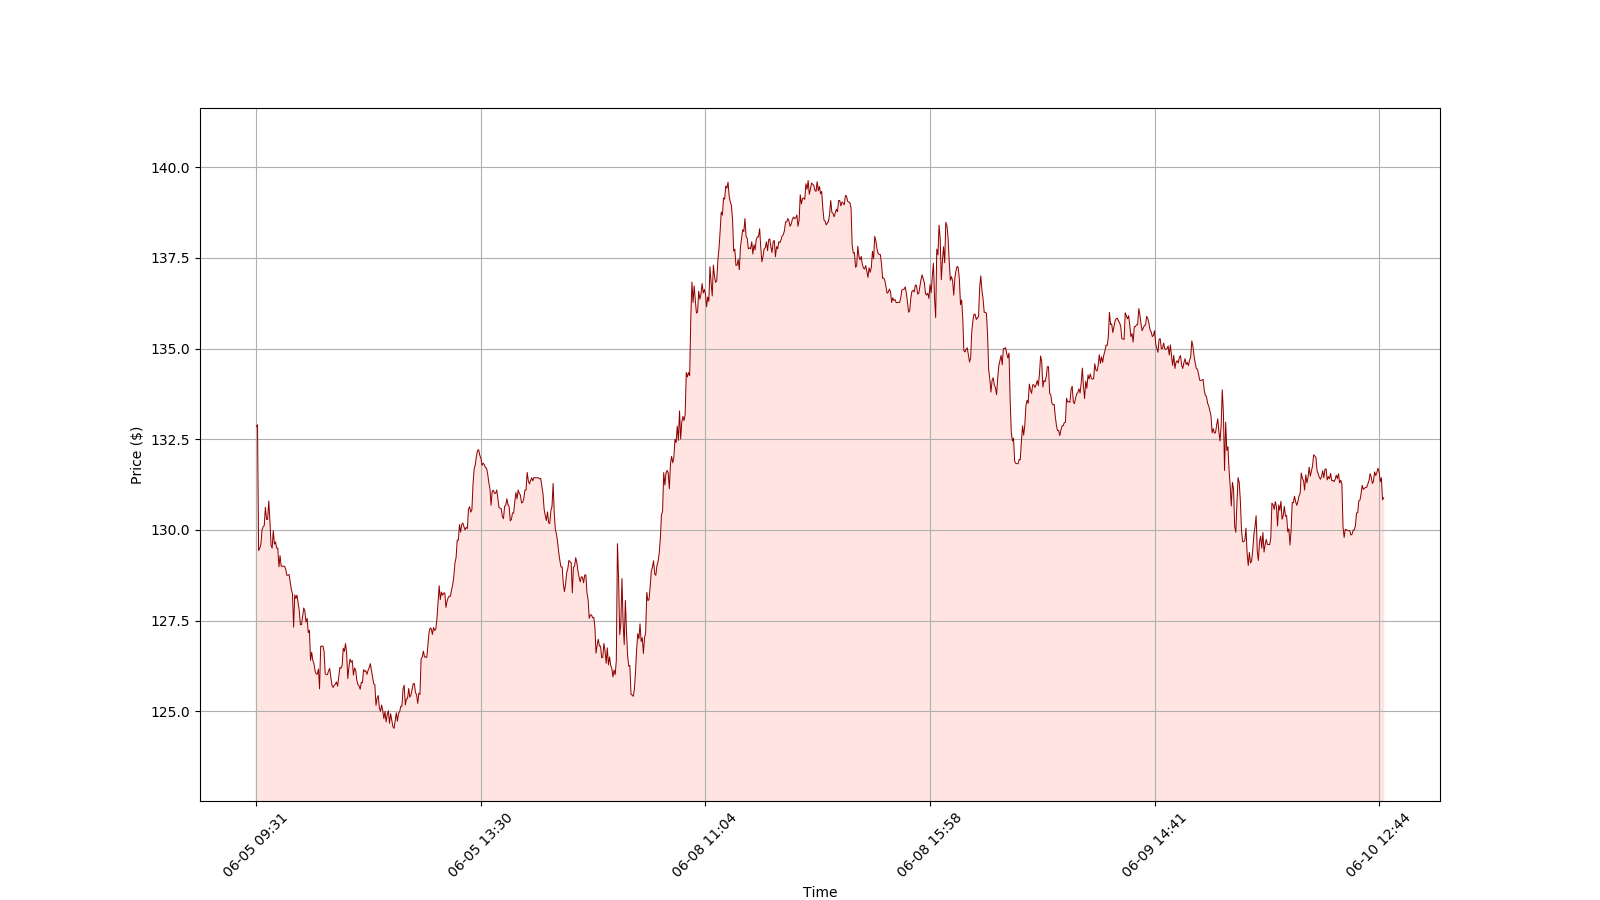
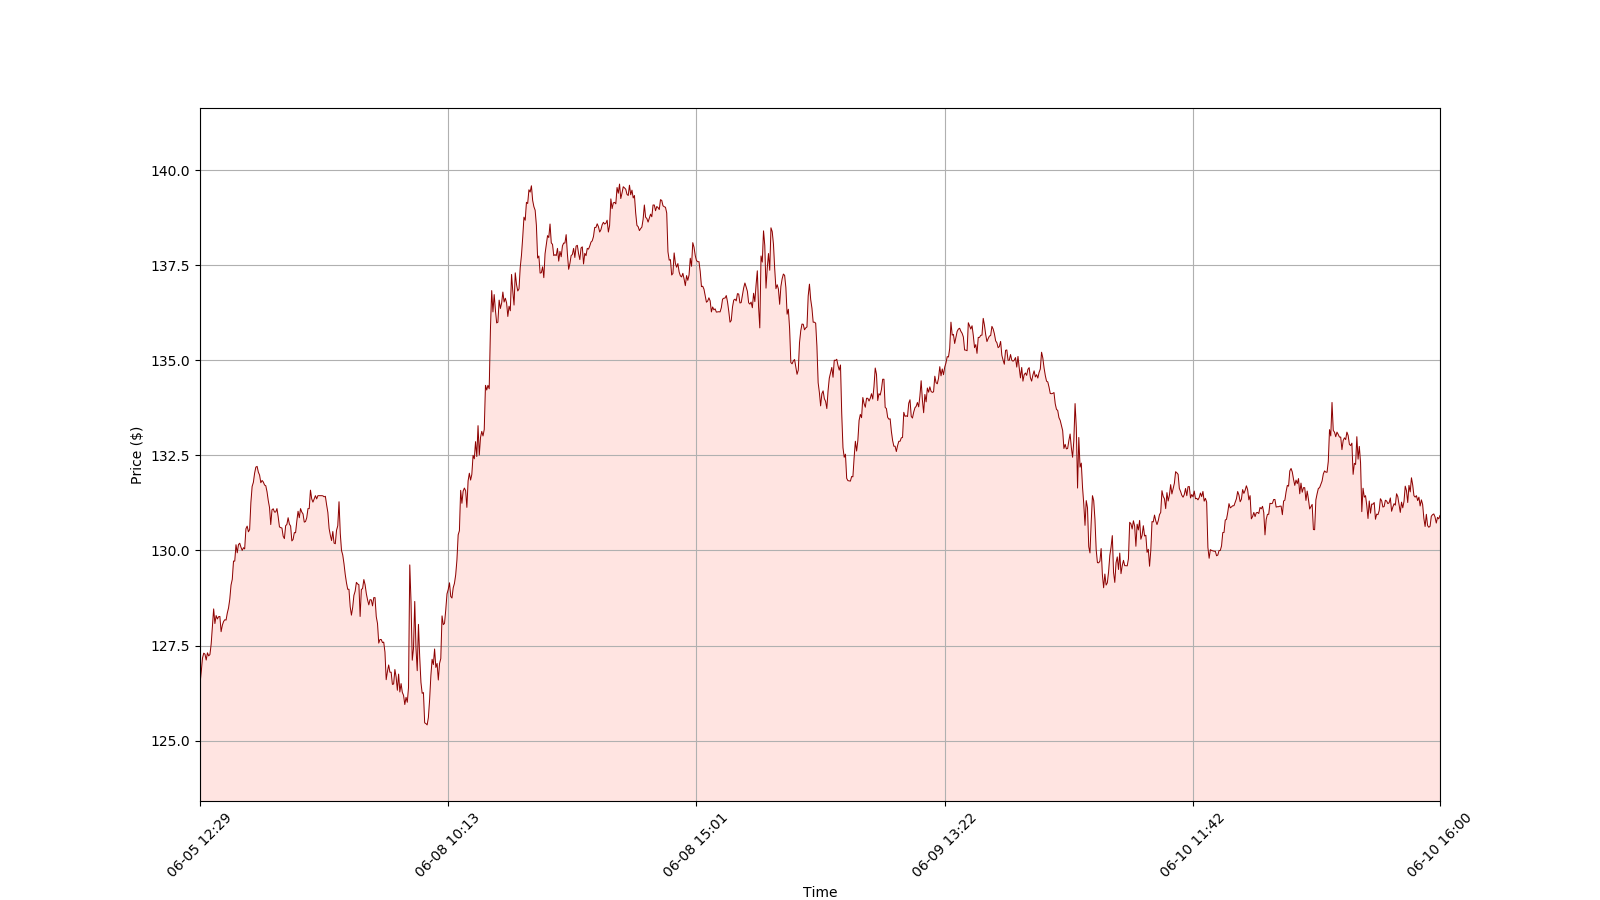
finalize graph

diff --git a/py_folder/websearch.py b/py_folder/websearch.py
@@ -2,7 +2,8 @@ import urllib.request, urllib.parse, urllib.error
 from bs4 import BeautifulSoup
 from alpha_vantage.timeseries import TimeSeries
 from matplotlib import pyplot as plt 
-from matplotlib import ticker as plticker 
+from matplotlib import ticker as plticker
+import numpy as np 
 
 class WebSearch():
 
@@ -47,7 +48,6 @@ class WebSearch():
     def api_call(self,symbol,apikey):
         ts = TimeSeries(key=apikey)
         data, meta_data = ts.get_intraday(symbol, interval = '1min', outputsize = 'full')
-        print(data)
         return data
 
 
@@ -88,8 +88,13 @@ class WebSearch():
 
         plt.xlabel('Time')
         plt.xticks(rotation=45)
-        loc = plticker.MultipleLocator(base=len(x_axis)//5-1)
+        loc = plticker.MultipleLocator(base=len(x_axis)//5)
         ax.xaxis.set_major_locator(loc)
+        x_ticks = np.append(ax.get_xticks(),len(x_axis)-1)
+        ax.set_xticks(x_ticks)
+        plt.xlim(x_axis[0],x_axis[-1])
+
+
         plt.ylabel('Price ($)')
         plt.grid(True)
         plt.ylim(min(y_axis)-2,max(y_axis)+2)
